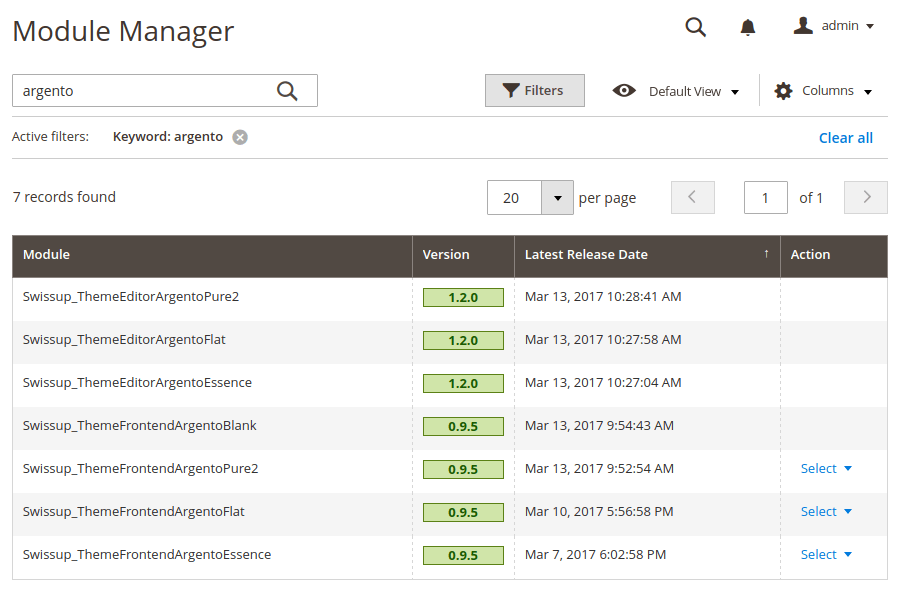
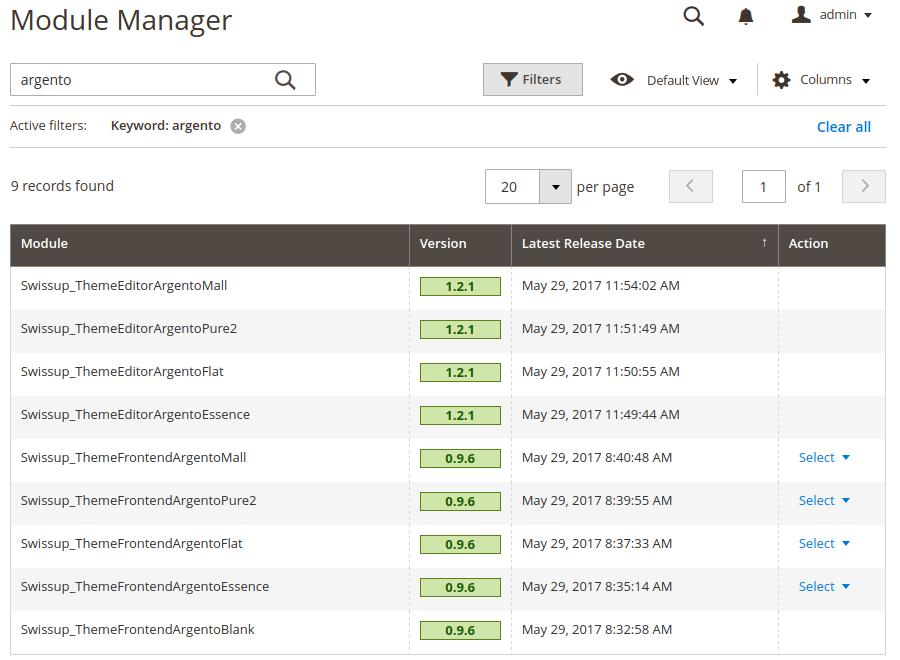
Argento M2 installation updated, added Mall

diff --git a/m2/argento/installation/manual.md b/m2/argento/installation/manual.md
@@ -13,7 +13,7 @@ category: Argento
  4. [Setup configuration and theme content](#setup-configuration-and-theme-content)
  5. [Deploy sample data images](#deploy-sample-data-images)
 
-{% include installation/m2/manual.html site="argentotheme.com" modules="Swissup_Core Swissup_Ajaxsearch Swissup_Askit Swissup_Attributepages Swissup_EasySlide Swissup_Easybanner Swissup_Easycatalogimg Swissup_Easytabs Swissup_Fblike Swissup_FontAwesome Swissup_Highlight Swissup_ProLabels Swissup_Reviewreminder Swissup_RichSnippets Swissup_SlickCarousel Swissup_SoldTogether Swissup_Testimonials Swissup_ThemeEditor Swissup_ThemeEditorArgentoEssence Swissup_ThemeEditorArgentoFlat Swissup_ThemeEditorArgentoPure2" %}
+{% include installation/m2/manual.html site="argentotheme.com" modules="Swissup_Core Swissup_Ajaxsearch Swissup_Askit Swissup_Attributepages Swissup_EasySlide Swissup_Easybanner Swissup_Easycatalogimg Swissup_Easytabs Swissup_Fblike Swissup_FontAwesome Swissup_Highlight Swissup_ProLabels Swissup_Reviewreminder Swissup_RichSnippets Swissup_SlickCarousel Swissup_SoldTogether Swissup_Testimonials Swissup_ThemeEditor Swissup_ThemeEditorArgentoEssence Swissup_ThemeEditorArgentoFlat Swissup_ThemeEditorArgentoPure2 Swissup_ThemeEditorArgentoMall" %}
 
 #### 4. Setup configuration and theme content
 
@@ -37,10 +37,12 @@ cd MAGENTO_ROOT
 cp -R app/design/frontend/Swissup/argento-essence/resources/media/* pub/media/
 cp -R app/design/frontend/Swissup/argento-flat/resources/media/* pub/media/
 cp -R app/design/frontend/Swissup/argento-pure2/resources/media/* pub/media/
+cp -R app/design/frontend/Swissup/argento-mall/resources/media/* pub/media/
 # If you are using theme from vendor folder:
 # cp -R vendor/swissup/theme-frontend-argento-essence/resources/media/* pub/media/
 # cp -R vendor/swissup/theme-frontend-argento-flat/resources/media/* pub/media/
 # cp -R vendor/swissup/theme-frontend-argento-pure2/resources/media/* pub/media/
+# cp -R vendor/swissup/theme-frontend-argento-mall/resources/media/* pub/media/
 chmod -R 777 pub/media/easybanner pub/media/easyslide
 ```
 
